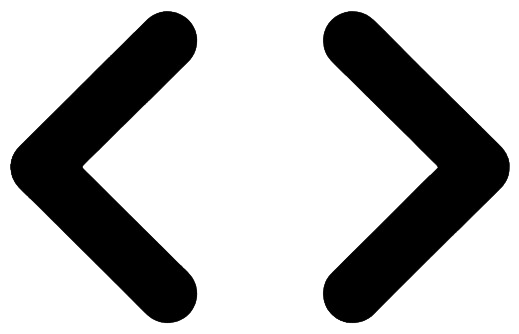
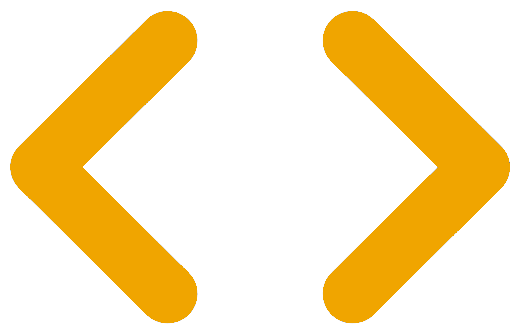
working_35

Changed region(s): [[0.0, 0.0299, 0.4008, 0.988], [0.6166, 0.0299, 0.9865, 0.988]]

diff --git a/CSS/styles.css b/CSS/styles.css
@@ -860,17 +860,17 @@ input[type=range] {
   position: absolute;
   top: 50%;
   transform: translateY(-50%);
-  background: rgba(59, 59, 59, 0.7);
   border: none;
-  font-size: 2rem;
+  font-size: 3rem;
   cursor: pointer;
   padding: 0.5rem 1rem;
   z-index: 2;
+  background: transparent;
   transition: background 0.3s ease;
+  color: var(--yellow);
 }
 
 .carousel-btn:hover {
-  background: rgba(134, 134, 134, 0.7);
 }
 
 .carousel-btn.prev {
